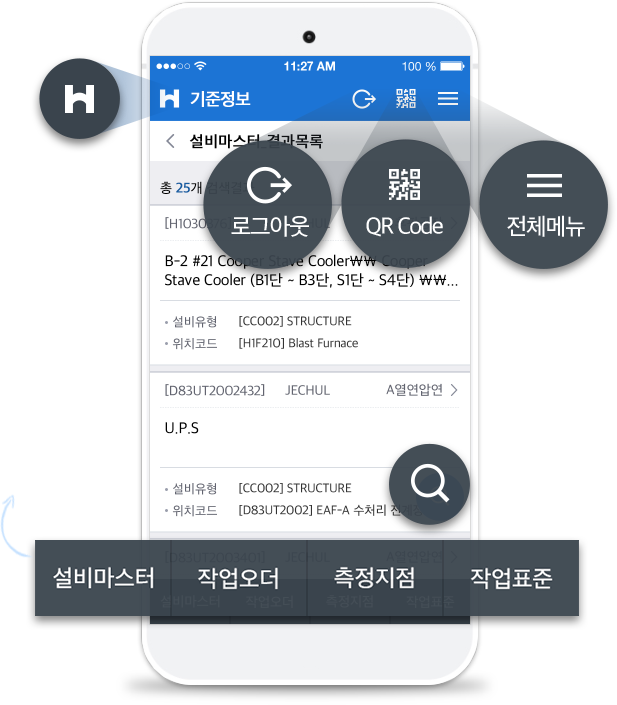
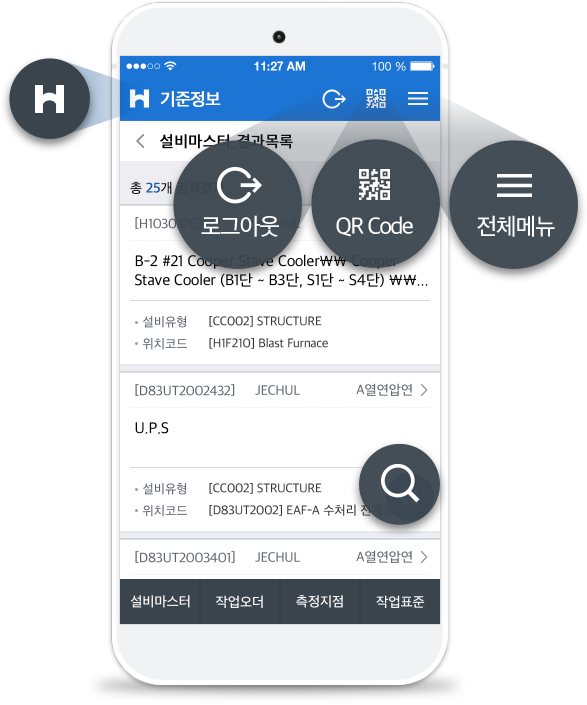
설비관리 가이드 두번째 이미지 수정

diff --git a/em/U_EQ_00001_guide.html b/em/U_EQ_00001_guide.html
@@ -83,7 +83,7 @@
                       </small>
                     </p>
                   </div>
-                  <img src="../assets/img/guide/em-02.png" class="img-fluid" alt="" style="width:308px">
+                  <img src="../assets/img/guide/em-02.png" class="img-fluid" alt="" style="width:293px">
                 </div>
 
                 <div class="swiper-slide">
